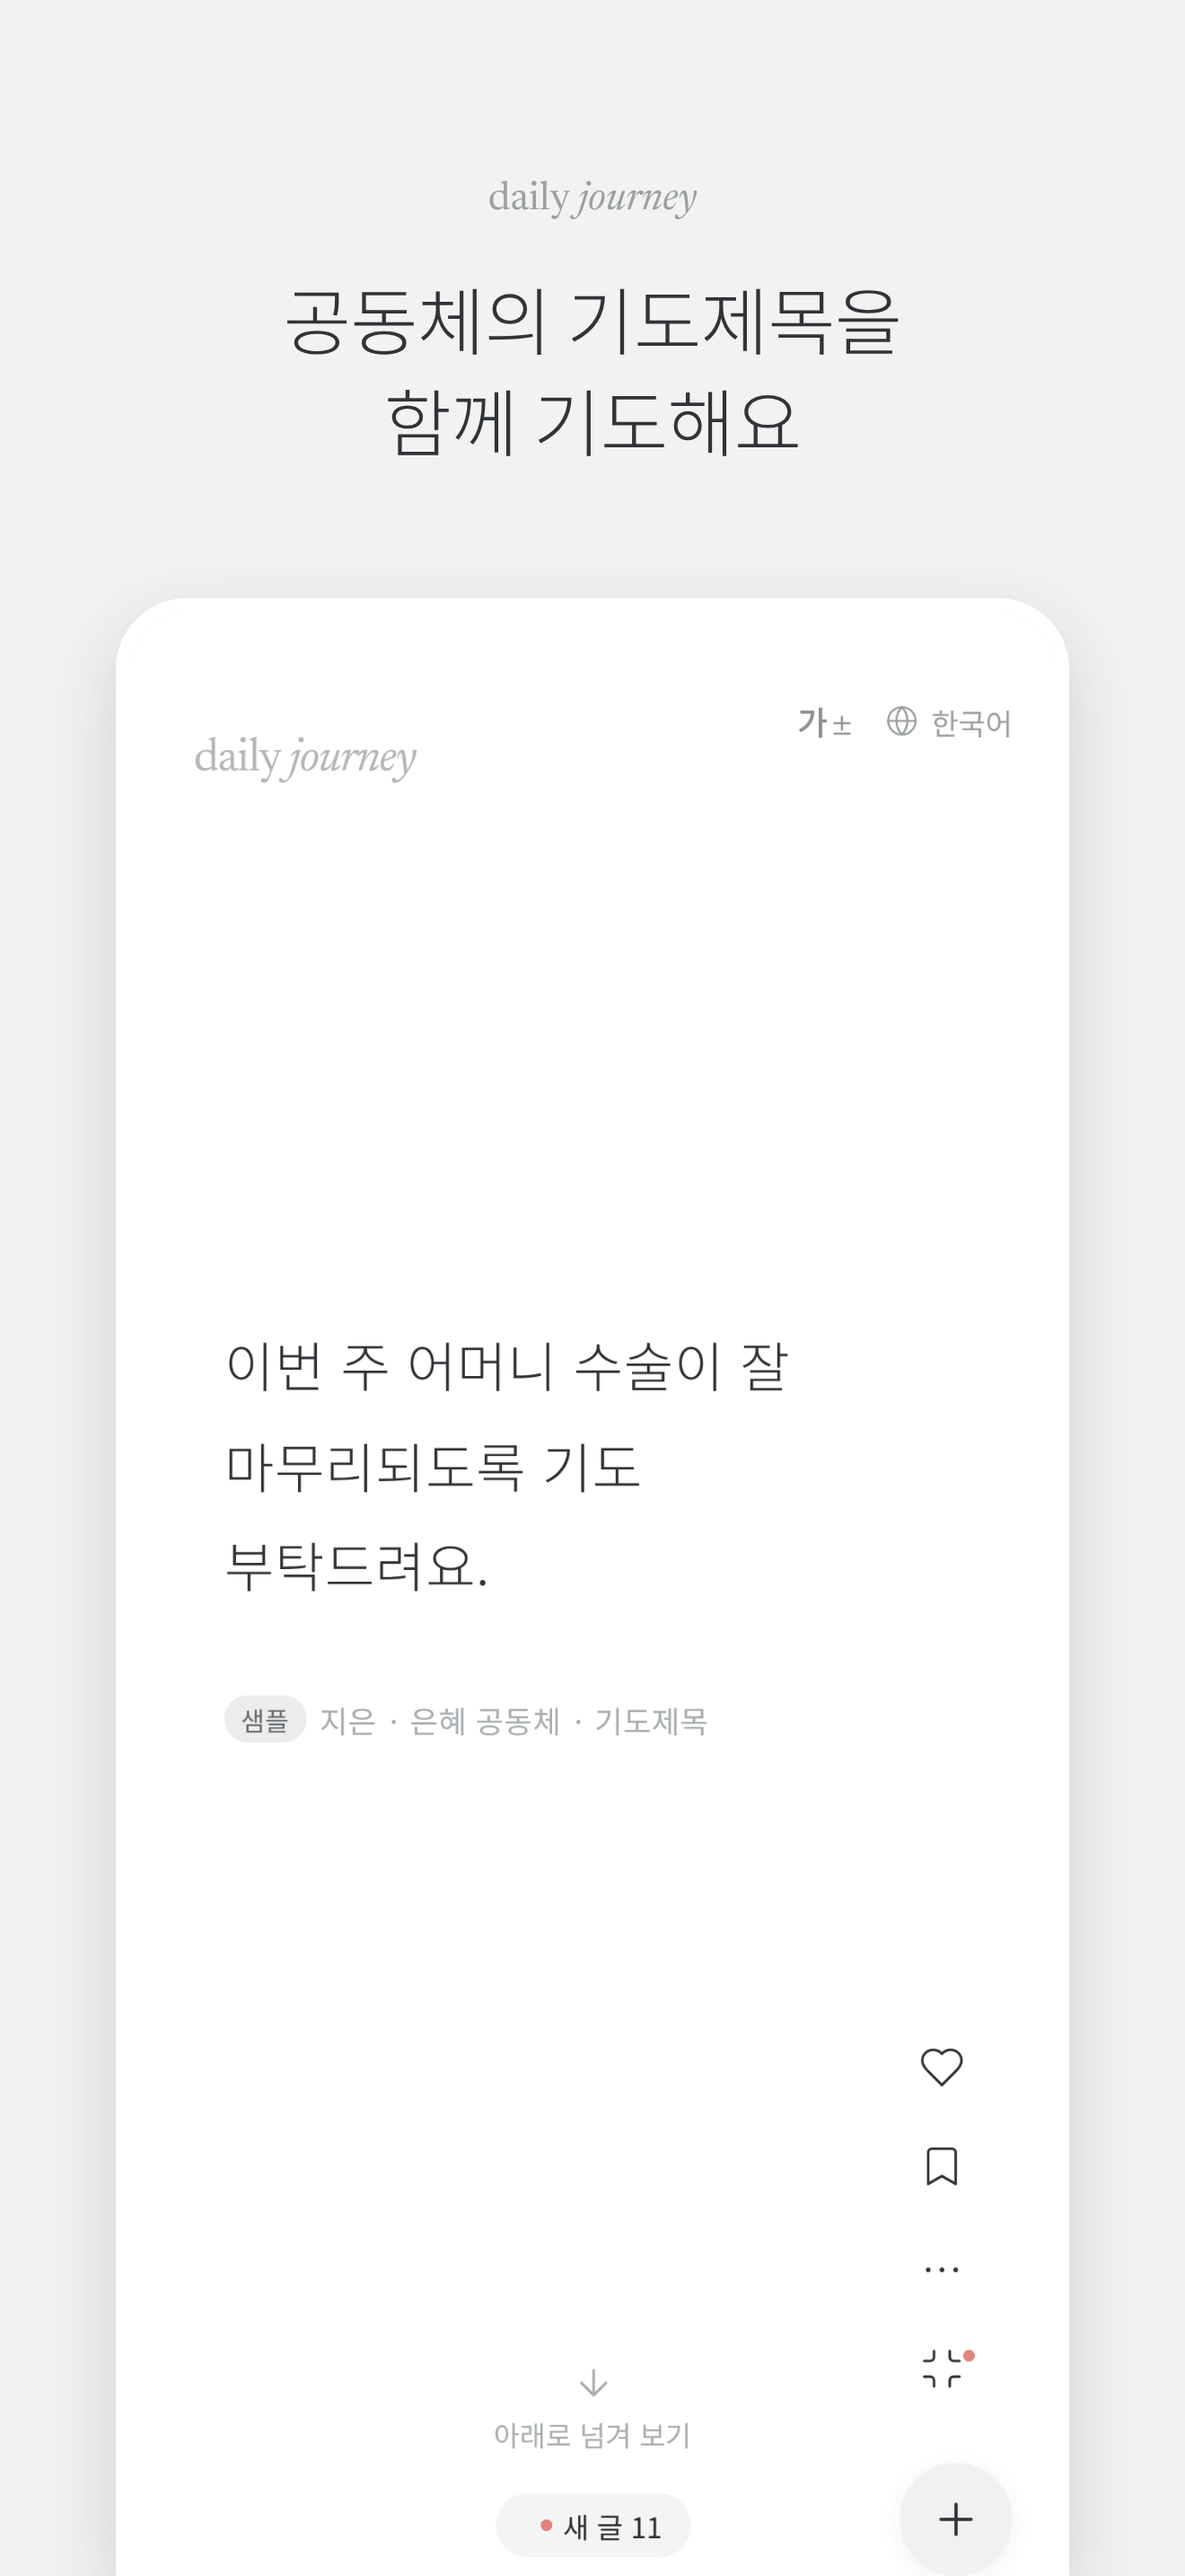
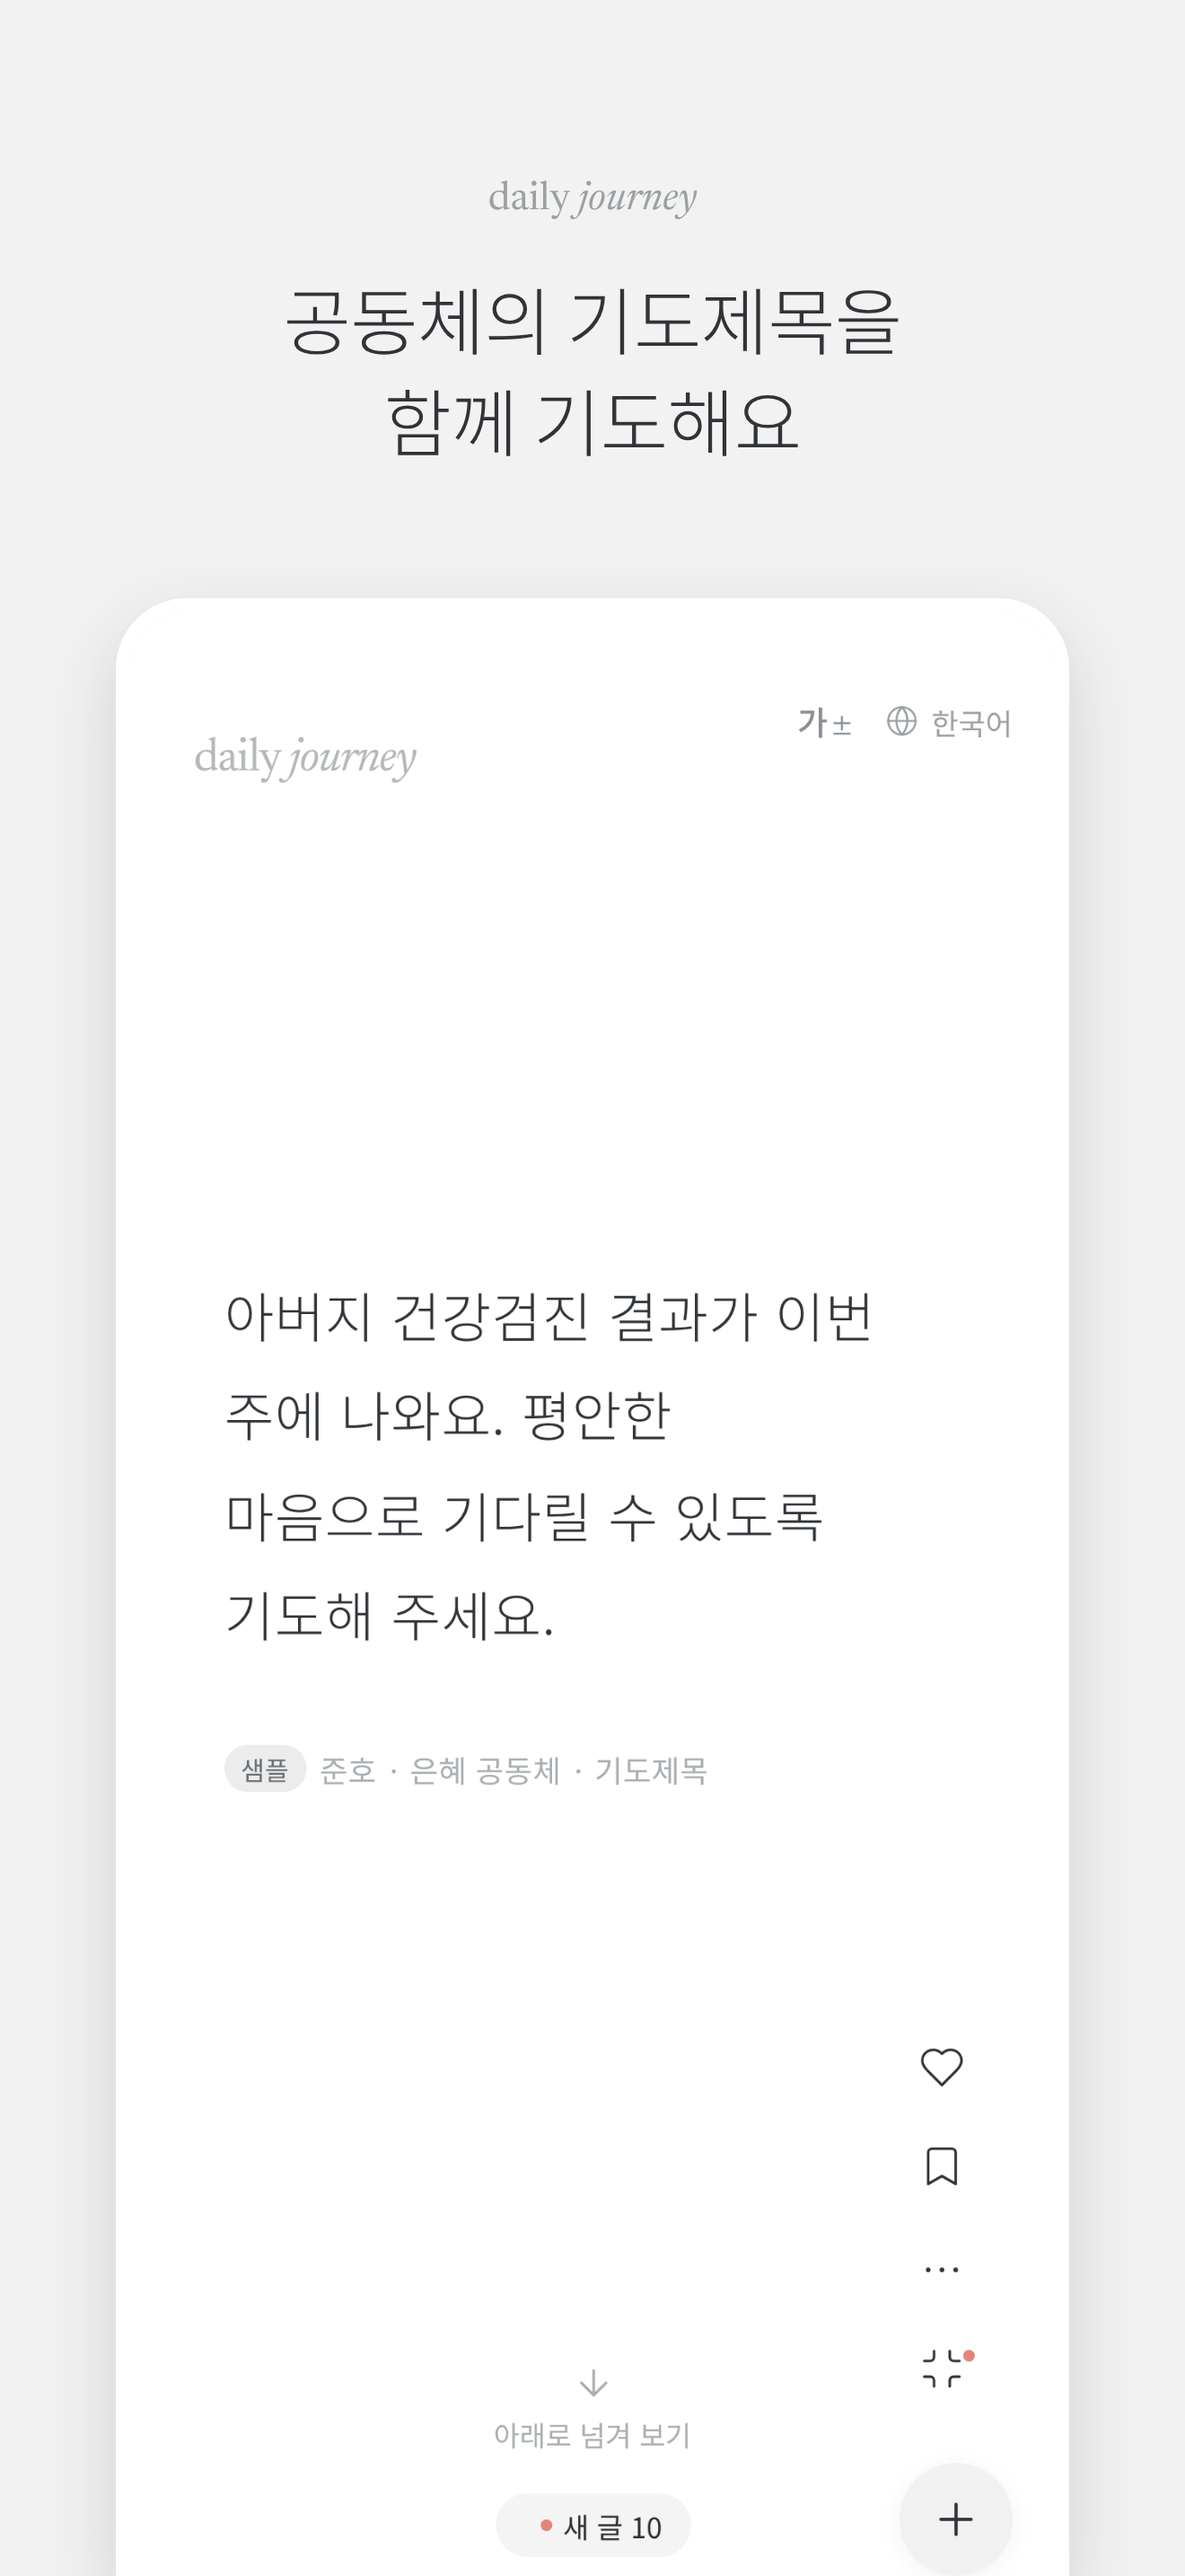
Screenshots for Daily Journey: re-shoot in progress
Claude-Session: https://claude.ai/code/session_01HiA1Grd2LiqdahbcYTHw2p

Changed region(s): [[0.1864, 0.4965, 0.7455, 0.7137], [0.528, 0.6517, 0.5902, 0.7137], [0.6523, 0.5586, 0.6833, 0.5896]]

diff --git a/tools/make-journey-screenshots.js b/tools/make-journey-screenshots.js
@@ -13,9 +13,18 @@ const page = path.resolve(process.argv[2] || path.join(ROOT, 'dist/daily-bible.h
 const BRAND = process.env.BRAND || 'journey';
 const out = path.resolve(process.argv[3] || path.join(ROOT, 'store/screenshots', BRAND));
 const CAPTIONS = {
-  ko: ['말씀을 매일,<br>한 장씩', '친구와 같은 날,<br>같은 말씀을', '공동체의 기도제목을<br>함께 기도해요', '설교는 녹음하면<br>노트로 정리돼요', '가까운 사람들과<br>공동체로 함께'],
-  en: ['The Word daily,<br>one page at a time', 'Same passage, same day,<br>with friends', 'Pray for your<br>community together', 'Record the sermon,<br>it becomes notes', 'Communities of<br>the people close to you'],
-  es: ['La Palabra cada día,<br>una página a la vez', 'El mismo pasaje,<br>el mismo día, juntos', 'Ora junto a<br>tu comunidad', 'Graba el sermón,<br>y se vuelve notas', 'Comunidades con<br>la gente cercana']
+  ko: ['말씀을 매일,<br>한 장씩', '친구와 같은 날,<br>같은 말씀을', '공동체의 기도제목을<br>함께 기도해요', '설교를 녹음하고,<br>본문과 함께 노트로', '가까운 사람들과<br>공동체로 함께', '내가 나눈 말씀이<br>닿은 곳'],
+  en: ['The Word daily,<br>one page at a time', 'Same passage, same day,<br>with friends', 'Pray for your<br>community together', 'Record the sermon,<br>keep your own notes', 'Communities of<br>the people close to you', 'See how far your<br>sharing has reached'],
+  es: ['La Palabra cada día,<br>una página a la vez', 'El mismo pasaje,<br>el mismo día, juntos', 'Ora junto a<br>tu comunidad', 'Graba el sermón,<br>escribe tus notas', 'Comunidades con<br>la gente cercana', 'Mira hasta dónde<br>llegó lo que compartiste']
+};
+// A sermon note the user wrote themselves (first release: recording + your own notes; no automatic summaries).
+const NOTE = {
+  ko: { title: '열매 맺는 가지', preacher: '김은혜 목사', church: '은혜교회', passage: '요한복음 15:1-11', main: '열매는 애써서 만드는 것이 아니라, 예수님 안에 머물 때 맺혀요.',
+    body: '· 포도나무는 예수님, 우리는 가지. 가지는 스스로 열매를 맺지 못한다.\n· "거하라" — 머문다는 건 매일 말씀과 기도로 붙어 있는 것.\n· 가지치기는 버리시는 게 아니라 더 열매 맺게 하시는 손길.\n\n이번 주 적용\n· 아침에 휴대폰보다 말씀을 먼저 펴기\n· 공동체 기도제목 하나씩 붙들고 기도하기' },
+  en: { title: 'Branches that bear fruit', preacher: 'Pastor James Lee', church: 'Grace Church', passage: 'John 15:1-11', main: 'Fruit isn’t something we work up; it grows when we remain in Jesus.',
+    body: '· Jesus is the vine, we are the branches. A branch can’t bear fruit by itself.\n· “Abide” — staying close every day, in the Word and in prayer.\n· Pruning isn’t rejection; it’s the gardener’s care so we bear more fruit.\n\nThis week\n· Open the Bible before my phone in the morning\n· Pray for one prayer request from my community each day' },
+  es: { title: 'Ramas que dan fruto', preacher: 'Pastor Daniel Ruiz', church: 'Iglesia Gracia', passage: 'Juan 15:1-11', main: 'El fruto no se fabrica con esfuerzo: crece cuando permanecemos en Jesús.',
+    body: '· Jesús es la vid, nosotros las ramas. La rama no da fruto por sí sola.\n· “Permaneced”: estar cerca cada día, en la Palabra y en oración.\n· La poda no es rechazo; es el cuidado del labrador para que demos más fruto.\n\nEsta semana\n· Abrir la Biblia antes que el teléfono por la mañana\n· Orar cada día por una petición de mi comunidad' }
 };
 const LOCALE = { ko: 'ko-KR', en: 'en-US', es: 'es-ES' };
 const NAME = { ko: '은혜', en: 'Grace', es: 'Gracia' };
@@ -32,13 +41,27 @@ async function rawShots(b, lang) {
     if (/fonts\.(googleapis|gstatic)\.com$/.test(u.host)) return r.continue();
     return r.abort(); // no Supabase, no remote Bible: sample content only
   });
-  await ctx.addInitScript(([name, brand]) => {
+  await ctx.addInitScript(([name, brand, n]) => {
     if (brand === 'journey') window.DT_BRAND = 'journey';
-    try { localStorage.setItem('daily-thanks-v4', JSON.stringify({ settings: { toured: true, myName: name } })); sessionStorage.setItem('wl-later', '1'); } catch {}
-  }, [NAME[lang], BRAND]);
+    const d = new Date(), date = `${d.getFullYear()}-${String(d.getMonth() + 1).padStart(2, '0')}-${String(d.getDate()).padStart(2, '0')}`;
+    const note = { id: 'shot-note', manual: true, date, title: n.title, preacher: n.preacher, church: n.church, status: 'done', body: n.body, rec: { dur: 1840, bytes: 29e6 },
+      ref: { b: 43, c: 15, v: 1, v2: 11 }, summary: { title: n.title, passages: [n.passage], main_message: n.main, points: [], application: [], prayer_topics: [], discussion_questions: [] } };
+    // The app only keeps stored data that has its posts list, so add to what it saved on the first open (the page reloads once).
+    try {
+      sessionStorage.setItem('wl-later', '1');
+      const s = JSON.parse(localStorage.getItem('daily-thanks-v4') || 'null');
+      if (s && Array.isArray(s.posts) && !sessionStorage.getItem('shot-seeded')) {
+        s.settings = { ...(s.settings || {}), toured: true, myName: name }; s.sermonNotes = [note];
+        localStorage.setItem('daily-thanks-v4', JSON.stringify(s)); sessionStorage.setItem('shot-seeded', '1');
+      } else if (!s) localStorage.setItem('daily-thanks-v4', JSON.stringify({ settings: { toured: true, myName: name } }));
+    } catch {}
+  }, [NAME[lang], BRAND, NOTE[lang]]);
   const p = await ctx.newPage();
   p.on('pageerror', e => console.warn('page error:', e.message));
-  await p.goto('http://app.local/'); await p.waitForTimeout(4500); // let the splash finish
+  await p.goto('http://app.local/'); await p.waitForTimeout(2500);
+  await p.evaluate(() => window.DailyThanks?.save?.());
+  await p.reload(); await p.waitForTimeout(4500); // let the splash finish
+  if (!(await p.evaluate(() => !!sessionStorage.getItem('shot-seeded')))) throw new Error('could not seed the sermon note');
   const files = [];
   const snap = async n => { await p.waitForTimeout(500); const f = path.join(out, `raw-${lang}-${n}.png`); await p.screenshot({ path: f }); files.push(f); };
   const closeSheet = async () => { for (let i = 0; i < 3; i++) if (await p.evaluate(() => !document.getElementById('sheet')?.hidden)) { await p.keyboard.press('Escape'); await p.waitForTimeout(300); } };
@@ -53,13 +76,14 @@ async function rawShots(b, lang) {
   await p.evaluate(() => document.activeElement?.blur()); await snap(2);
   await closeSheet();
   files.push(prayer);
-  // 4 sermon note (the example). Its verse-check banner is hidden: it flags the sample note, not something users see on their own notes.
+  // 4 a sermon note the user wrote (recording + their own notes)
   await p.click('[data-tab=notes]'); await p.waitForTimeout(500);
-  await p.click('[data-action=note-open][data-id=example]'); await p.waitForTimeout(1000);
-  await p.addStyleTag({ content: '.vc-banner{display:none!important}' }); await snap(4);
+  await p.click('[data-action=note-open][data-id=shot-note]'); await p.waitForTimeout(1000); await snap(4);
   await p.click('[data-tab=read]'); await p.waitForTimeout(300);
   // 5 communities
   await p.click('[data-tab=group]'); await p.waitForTimeout(800); await snap(5);
+  // 6 me: my communities and my good influence
+  await p.click('[data-tab=me]'); await p.waitForTimeout(900); await snap(6);
   await ctx.close();
   return files.sort();
 }
